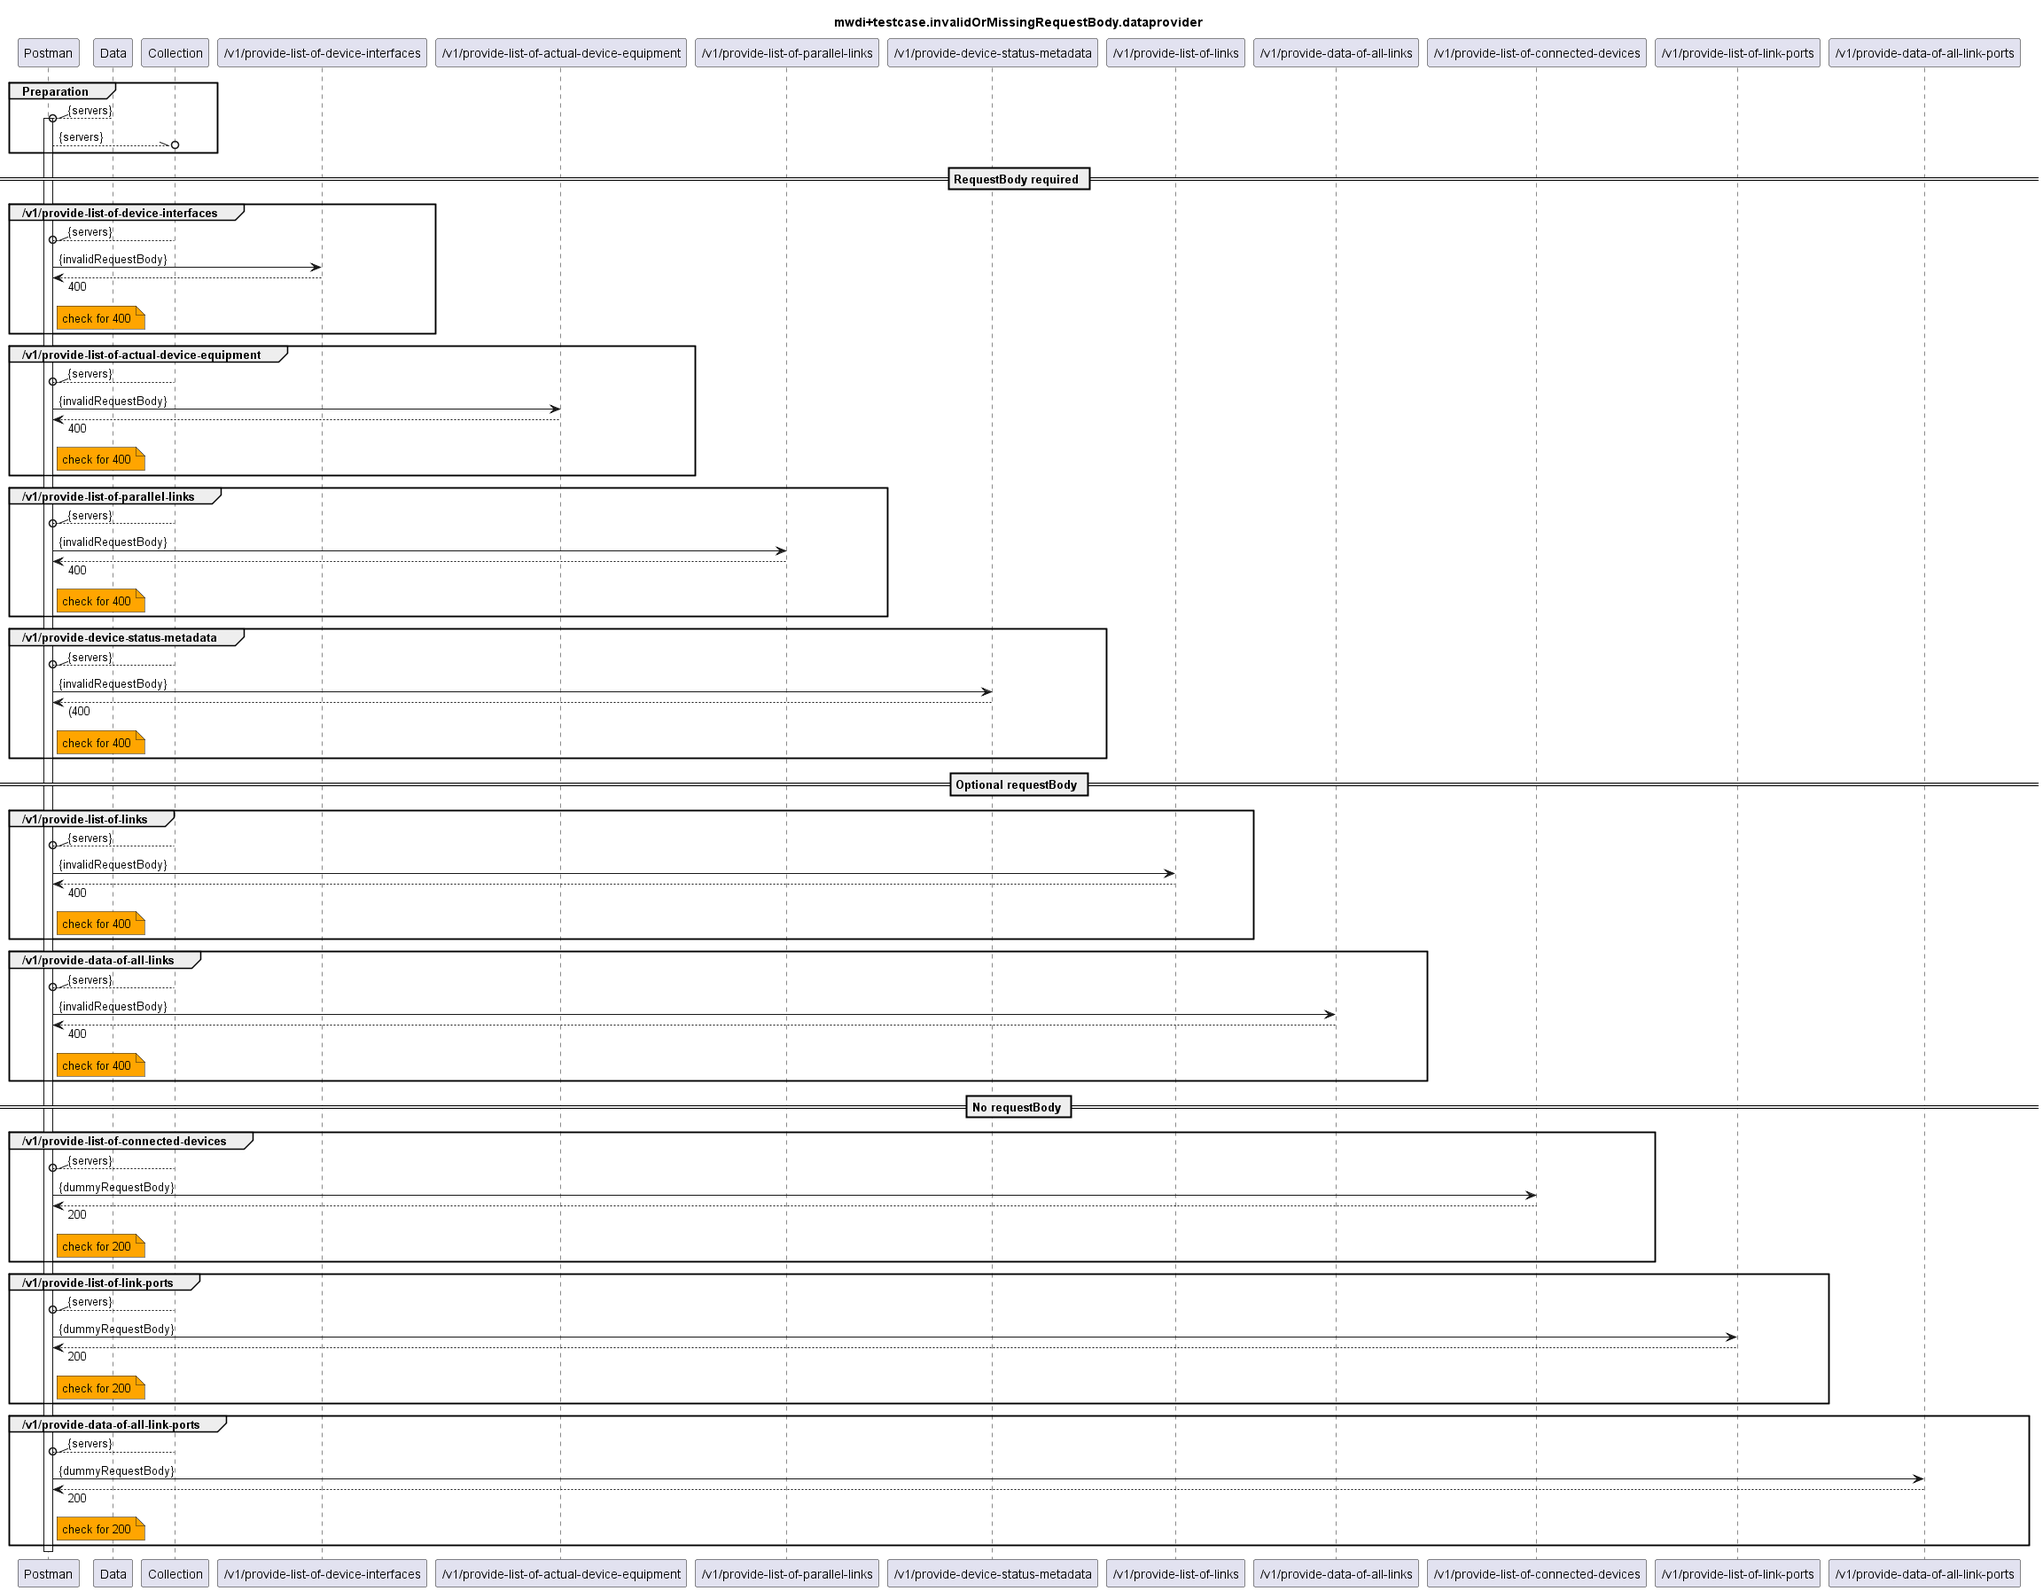
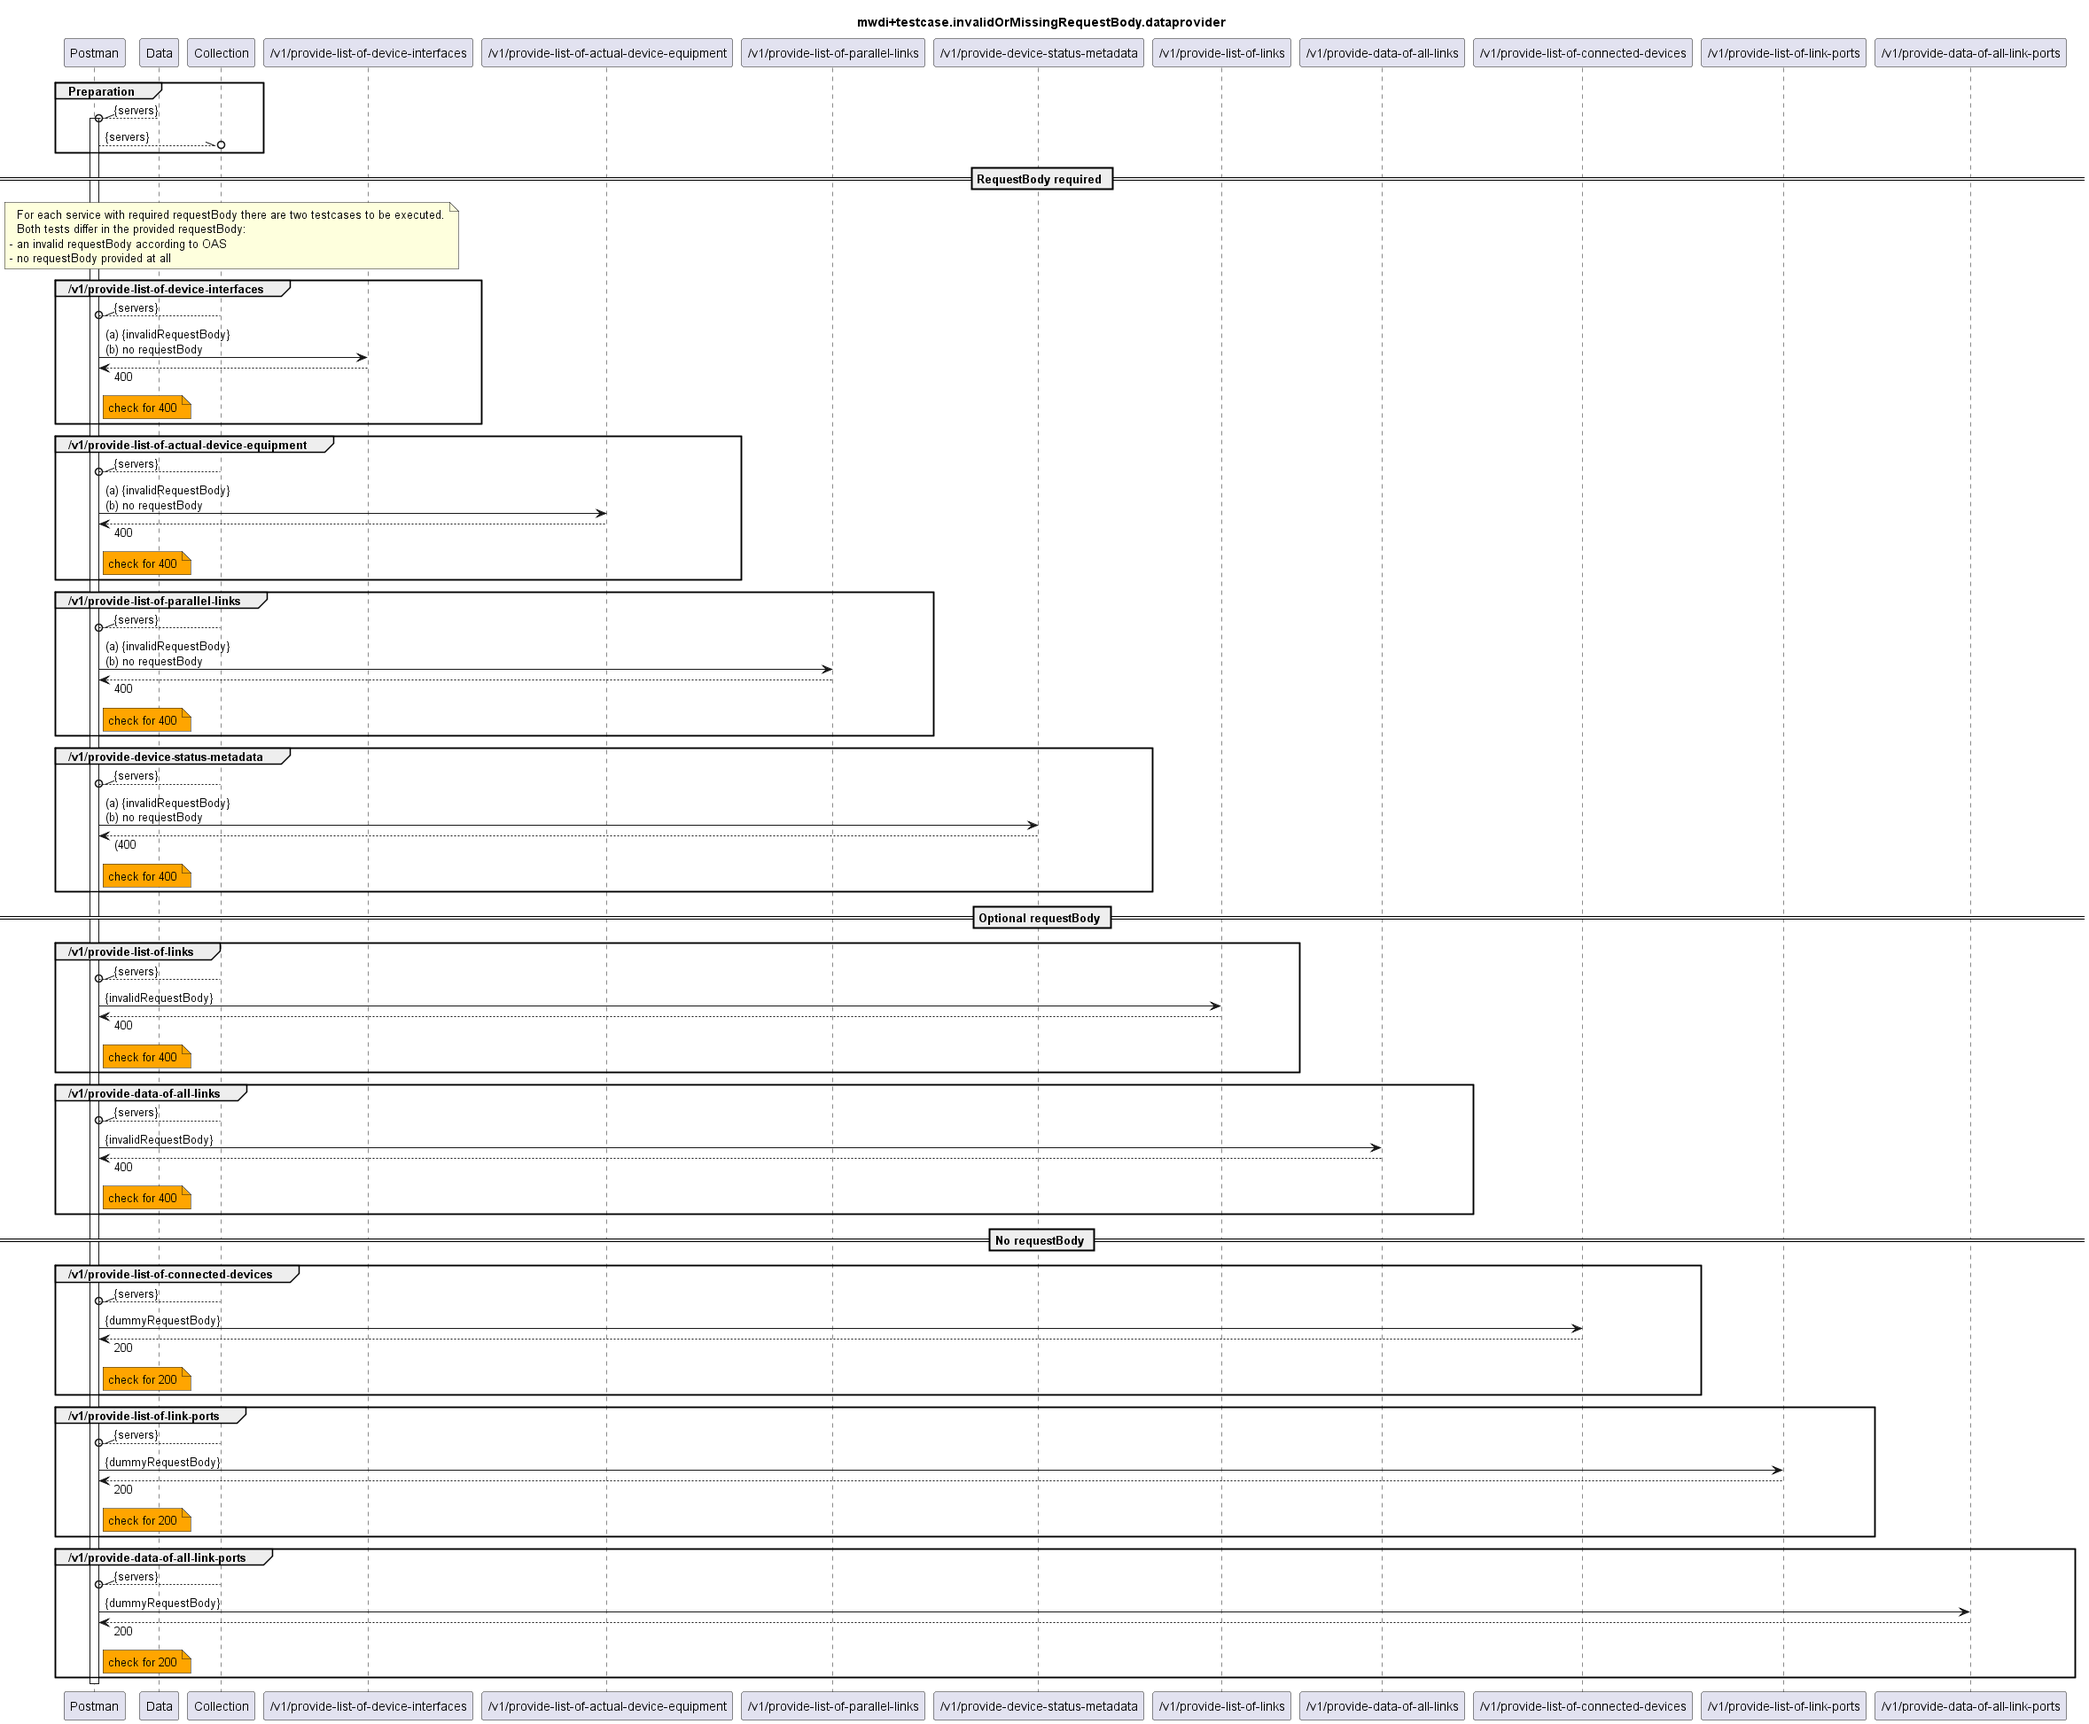
update descriptions

Changed region(s): [[0.0, 0.0, 0.9996, 0.9983], [0.8746, 0.8111, 0.9059, 0.8423]]

diff --git a/testing/2_functional/invalidOrMissingRequestBody/v1.2.2/Dataprovider/README.md b/testing/2_functional/invalidOrMissingRequestBody/v1.2.2/Dataprovider/README.md
@@ -2,11 +2,22 @@
 
 ![Overview](./mwdi+diagram.invalidOrMissingRequestBody.dataprovider.png)  
 
-A requestBody is not mandatory for all services.
-- optional requestBody: if provided, it must be according to the OAS. The tests will be executed with a requestBody that does not conform to the OAS, i.e. the expected response is 400.
-  - /v1/provide-list-of-links
-  - /v1/provide-data-of-all-links
-- no requestBody expected: if no requestBody is specified. For the tests, a dummy requestBody is handed over. The services could either respond with an error, or the requestBody can simply be ignored. For this scenario, the services are expected to ignore the requestBody and respond normally, i.e. with 200.
-  - /v1/provide-list-of-connected-devices
-  - /v1/provide-list-of-link-ports
-  - /v1/provide-data-of-all-link-ports
+Not all of the tested services require a requestBody.  
+The tested services can be categorized into three groups:
+1. services, where the requestBody is mandatory and must be provided according to the schema from the OAS.
+  - for these services two test will be performed: a) an invalid requestBody is provided and b) no requestBody is provided
+  - in both cases a 400 shall be returned
+2. services, where the requestBody is optional: if provided, it must match the OAS
+  - these services will be tested with an invalid requestBody
+  - a 400 shall be returned
+3. services, where no requestBody is specified.
+  - these services will be tested with a dummy requestBody (as none is specified, any requestBody will do)
+  - a 200 shall be returned  
+
+---
+The respective services per category are:  
+| <br>requestBody category | <br>Services | <br>Tests, expected results |
+|---|---|---|
+| <br>(1) mandatory |/v1/provide-list-of-device-interfaces <br>/v1/provide-list-of-actual-device-equipment <br>/v1/provide-list-of-parallel-links <br>/v1/provide-device-status-metadata <br> | <br>Invalid requestBody, no requestBody <br>400 |
+| <br>(2) optional | <br> /v1/provide-list-of-links <br> /v1/provide-data-of-all-links | <br>Invalid requestBody, <br>400 |
+| <br>(3) none | <br> /v1/provide-list-of-connected-devices <br> /v1/provide-list-of-link-ports <br> /v1/provide-data-of-all-link-ports | <br>Dummy requestBody <br>200 |
